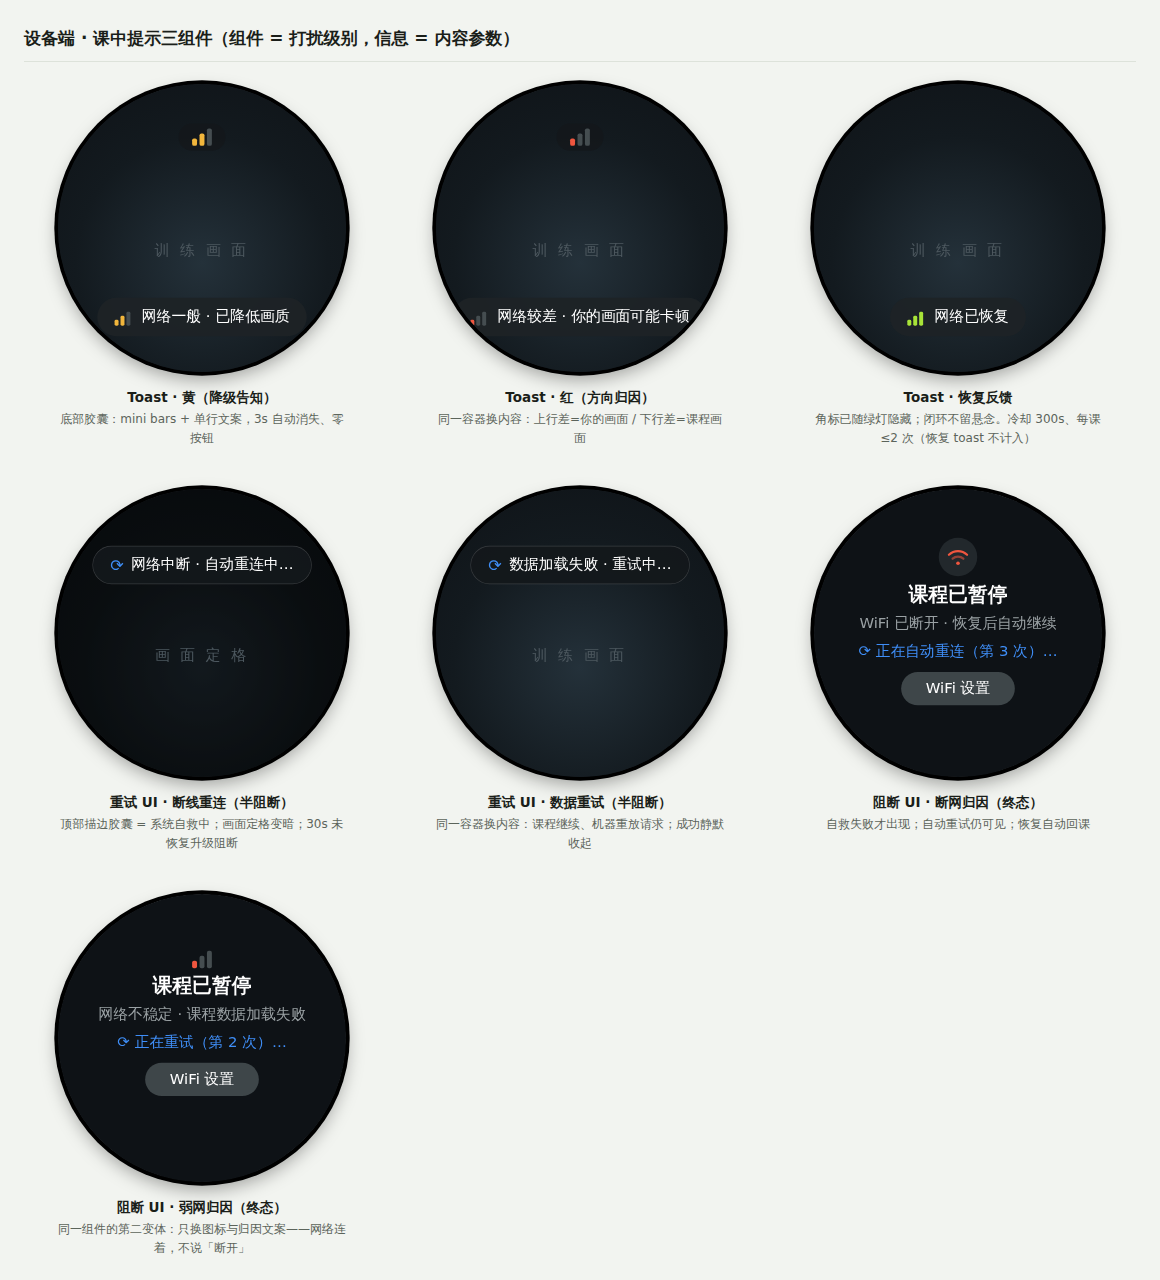
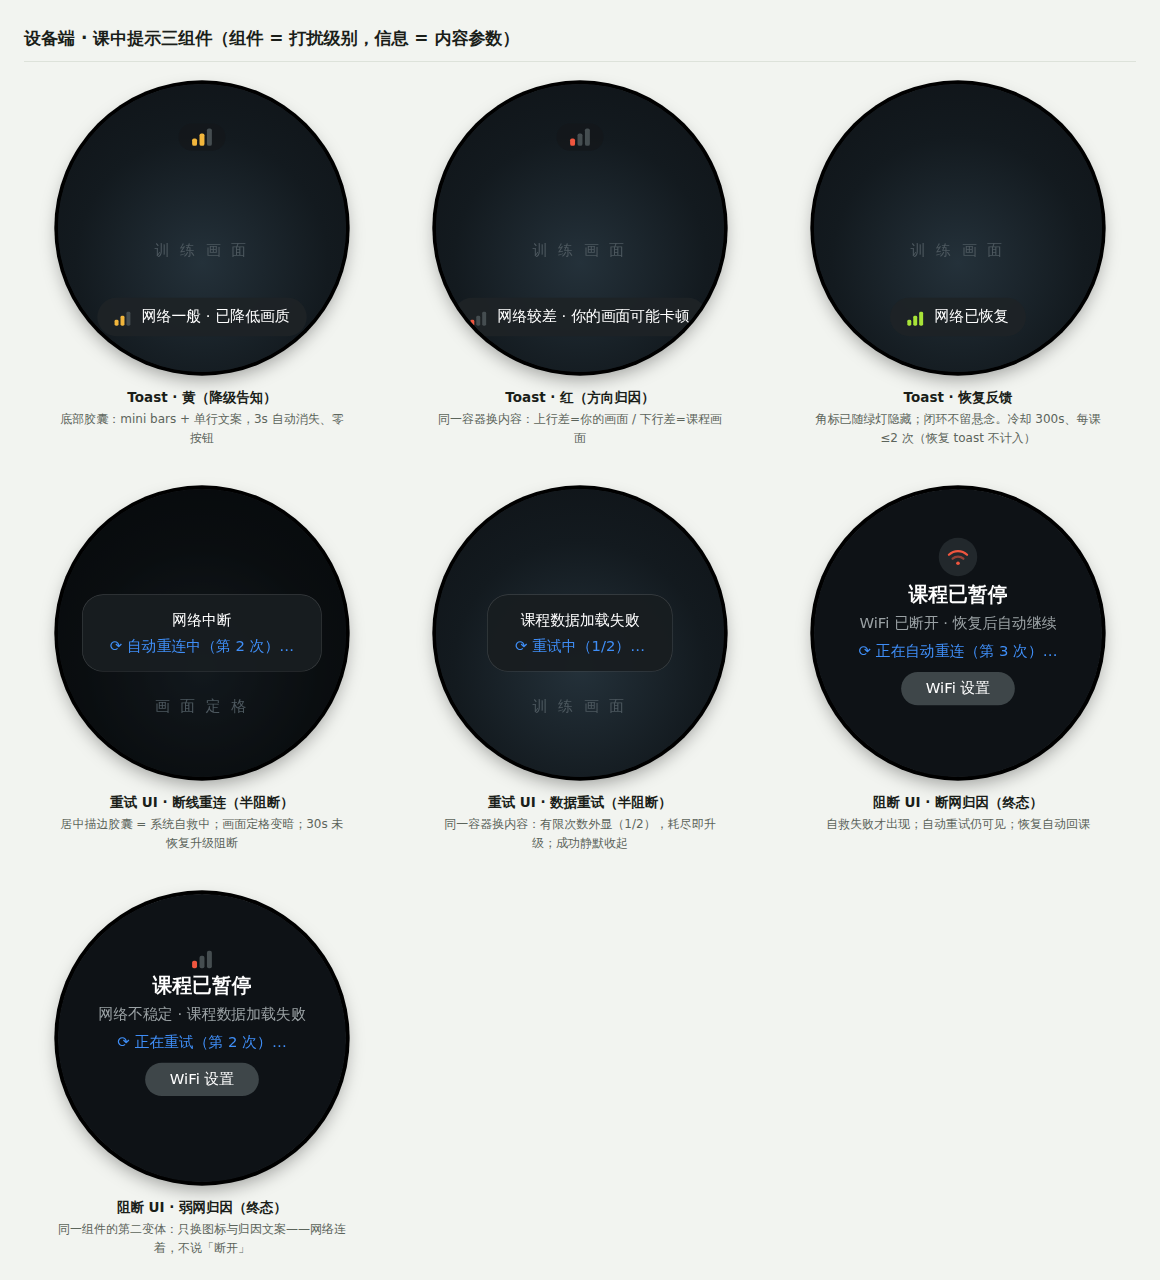
Retry UI moves to a centered two-line capsule per review sketch
- Medium-level component redesigned: centered outlined capsule with
  event line + blue progress line showing bounded attempts (1/2);
  spatial semantics finalized as bottom=transient, center=persistent
  semi-blocking, fullscreen=blocking, with the badge staying a top
  status layer that coexists with the retry card
- Type-scale standard recorded: size follows content tier, never
  disturbance level - 32 only for fullscreen page titles, 24 for all
  capsule copy/progress/buttons; escalation is expressed by container
  form and position (one line -> two lines -> fullscreen), not by
  larger type
- Demo, before/after sheet and embedded PNGs regenerated; CN/EN
  verified

Claude-Session: https://claude.ai/code/session_01GK61VJL6HvXSFdCeuPzjiU

Changed region(s): [[0.0931, 0.4375, 0.2483, 0.5625], [0.4345, 0.4375, 0.5586, 0.5312], [0.3724, 0.625, 0.6207, 0.6875]]

diff --git a/Demo-界面交互UI设计.html b/Demo-界面交互UI设计.html
@@ -118,13 +118,12 @@
     display: flex; align-items: center; gap: 10px;
     background: rgba(20,24,27,.85); border-radius: 99px; padding: 8px 22px;
   }
-  .retry-banner {
-    position: absolute; top: 92px; left: 50%; transform: translateX(-50%);
-    background: rgba(20,24,27,.92); border: 1.5px solid rgba(255,255,255,.16);
-    border-radius: 99px; white-space: nowrap;
-    font-size: 24px; padding: 12px 28px; display: flex; align-items: center; gap: 12px;
+  .retry-card {
+    position: absolute; left: 50%; top: 50%; transform: translate(-50%,-50%);
+    background: rgba(24,29,32,.96); border: 1.5px solid rgba(255,255,255,.16);
+    border-radius: 34px; padding: 24px 44px; text-align: center; font-size: 24px;
   }
-  .retry-banner .spin { color: var(--dev-info); font-size: 26px; }
+  .retry-card .rt2 { color: var(--dev-info); margin-top: 8px; white-space: nowrap; }
   .toast {
     position: absolute; bottom: 58px; left: 50%; transform: translateX(-50%);
     background: rgba(30,35,38,.95); border-radius: 99px; white-space: nowrap;
@@ -440,19 +439,19 @@
     <figure class="shot">
       <div class="device"><div class="screen">
         <div class="class-bg" style="filter:brightness(.5)"></div>
-        <div class="class-hint" data-en="F R O Z E N">画 面 定 格</div>
-        <div class="retry-banner"><span class="spin">⟳</span><span data-en="Reconnecting…">网络中断 · 自动重连中…</span></div>
+        <div class="class-hint" style="top:72%" data-en="F R O Z E N">画 面 定 格</div>
+        <div class="retry-card"><div data-en="Connection lost">网络中断</div><div class="rt2" data-en="⟳ Reconnecting (attempt 2)…">⟳ 自动重连中（第 2 次）…</div></div>
       </div></div>
-      <figcaption><b>重试 UI · 断线重连（半阻断）</b><span>顶部描边胶囊 = 系统自救中；画面定格变暗；30s 未恢复升级阻断</span></figcaption>
+      <figcaption><b>重试 UI · 断线重连（半阻断）</b><span>居中描边胶囊 = 系统自救中；画面定格变暗；30s 未恢复升级阻断</span></figcaption>
     </figure>
 
     <figure class="shot">
       <div class="device"><div class="screen">
         <div class="class-bg"></div>
-        <div class="class-hint" data-en="W O R K O U T">训 练 画 面</div>
-        <div class="retry-banner"><span class="spin">⟳</span><span data-en="Reloading data…">数据加载失败 · 重试中…</span></div>
+        <div class="class-hint" style="top:72%" data-en="W O R K O U T">训 练 画 面</div>
+        <div class="retry-card"><div data-en="Data load failed">课程数据加载失败</div><div class="rt2" data-en="⟳ Retrying (1/2)…">⟳ 重试中（1/2）…</div></div>
       </div></div>
-      <figcaption><b>重试 UI · 数据重试（半阻断）</b><span>同一容器换内容：课程继续、机器重放请求；成功静默收起</span></figcaption>
+      <figcaption><b>重试 UI · 数据重试（半阻断）</b><span>同一容器换内容：有限次数外显（1/2），耗尽即升级；成功静默收起</span></figcaption>
     </figure>
 
     <figure class="shot">

diff --git a/PRD-3-课中双端提示.md b/PRD-3-课中双端提示.md
@@ -90,10 +90,14 @@ TRTC 链路   onNetworkQuality（约 2s 一跳）
 | 组件 | 位置（空间语义） | 结构 | 规格 | 动效与时长 |
 | --- | --- | --- | --- | --- |
 | Toast | 底部中央胶囊（bottom ≈ 58px）——**底部 = 瞬时通知** | mini bars（灯色）+ 单行文案 | 文案 24px、≤14 全角；胶囊高 ≈ 52px | 淡入上滑 → 约 3s 自动淡出；冷却 300s、≤2 次/课（恢复 toast 不计入） |
-| 重试 UI | 顶部中央胶囊（top ≈ 92px，取圆弦足宽处）——**顶部 = 持续状态**，与角标同位互斥 | 旋转 spinner（蓝 `--dev-info`）+ 单行文案（可含「第 N 次」） | 24px、≤11 全角；1.5px 白 16% 描边——与报告卡同一视觉语言：**描边 = 进行中的容器** | 持续显示至成功（静默收起 + 恢复 toast）或超时升级；spinner 匀速旋转；断线变体画面定格调暗 50%，数据变体画面继续 |
+| 重试 UI | **屏幕中央双行胶囊卡**——挡在内容前但不占满屏，正是「半阻断」的空间表达 | 第 1 行事件（「网络中断」/「课程数据加载失败」）+ 第 2 行蓝色进度（「⟳ 自动重连中（第 N 次）…」/「⟳ 重试中（1/2）…」，**有限次数外显**，耗尽即升级） | 两行均 24px、事件行 ≤8 全角；1.5px 白 16% 描边——与报告卡同一视觉语言：**描边 = 进行中的容器** | 持续显示至成功（静默收起 + 恢复 toast）或超时/耗尽升级；spinner 匀速旋转；断线变体画面定格调暗 50%，数据变体画面继续 |
 | 阻断 UI | 全屏 | 归因图标（断网 = 扇形断开 / 弱网 = 红 1 格 bars）→ 标题 32「课程已暂停」→ 归因副行 24 灰 → 重试进度行 24 蓝 → 实底按钮「WiFi 设置」 | 沿用全局三档字号（32/24/15）与按钮规范 | 恢复 → 自动回课 + 恢复 toast |
 
-**互斥规则**：重试 UI 显示期间角标隐藏（同位）、不再发 toast（状态已在屏）；阻断 UI 显示期间其余组件全部不出——任意时刻屏上最多一个提示组件。
+**位置语义（打扰级别的空间表达）**：**贴底 = 轻度瞬时**（toast）→ **居中 = 中度持续**（重试卡，挡在内容前）→ **全屏 = 阻断**；顶部恒为状态层（角标）。侵入面积随级别递增，位置本身就是语义。
+
+**字号标准（探索结论）**：沿用全局三档（32/24/15），课中只动用两档——**32 仅用于全屏页标题**（阻断 UI「课程已暂停」），**24 用于一切胶囊文案、进度行、按钮**；15 元信息层课中无内容。**一致性原则：字号跟随内容层级，不跟随打扰级别**——同一句「网络较弱」在轻度 toast 和中度重试卡里字号相同（24），升级感全部由容器形态与位置表达（贴底单行 → 居中双行 → 全屏）。若字号随级别放大，同一句文案会出现三种大小，且「大字 = 重要」会与「全屏标题 32」的既有语义打架；中度级别的信息增量靠**加第二行**（进度），不靠加大字号。
+
+**互斥规则**：重试卡显示期间不再发 toast（状态已在屏），角标保留（状态层与事件层并行）；阻断 UI 显示期间其余组件全部不出——任意时刻屏上最多一个提示组件。
 
 配套两条硬规则：① **单向升级**——事件只能沿 Toast → 重试 UI → 阻断 UI 变重，绝不反向（用户看到重试 UI 就知道"系统在忙"，看到阻断就知道"该我了"）；② **恢复即回落**——任何一级在网络恢复时自动消退，不需要用户确认。常驻角标（bars）不属于提示组件，是第 0 层的状态显示，与三组件并行存在。
 
